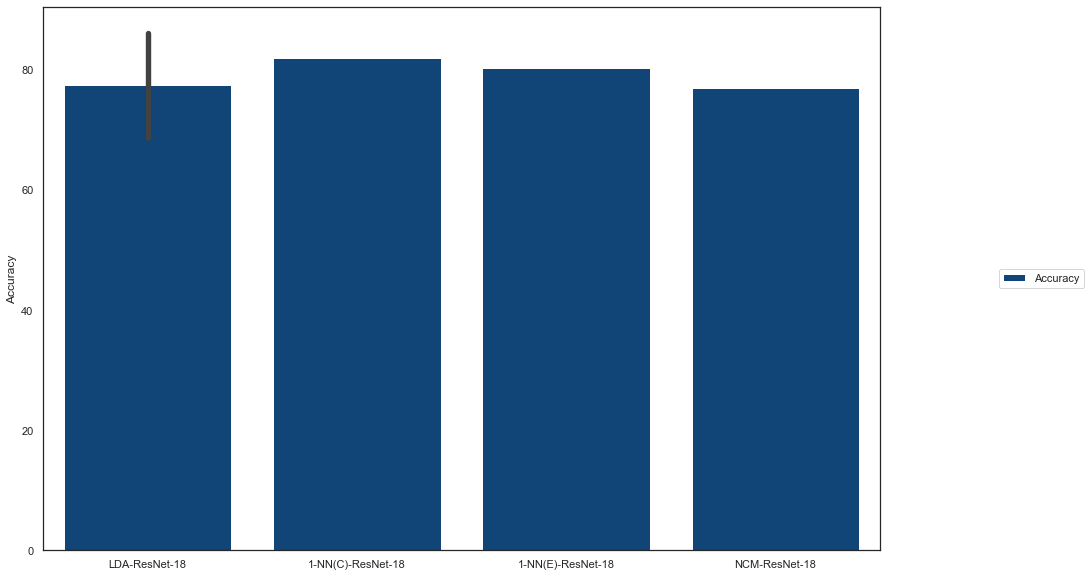
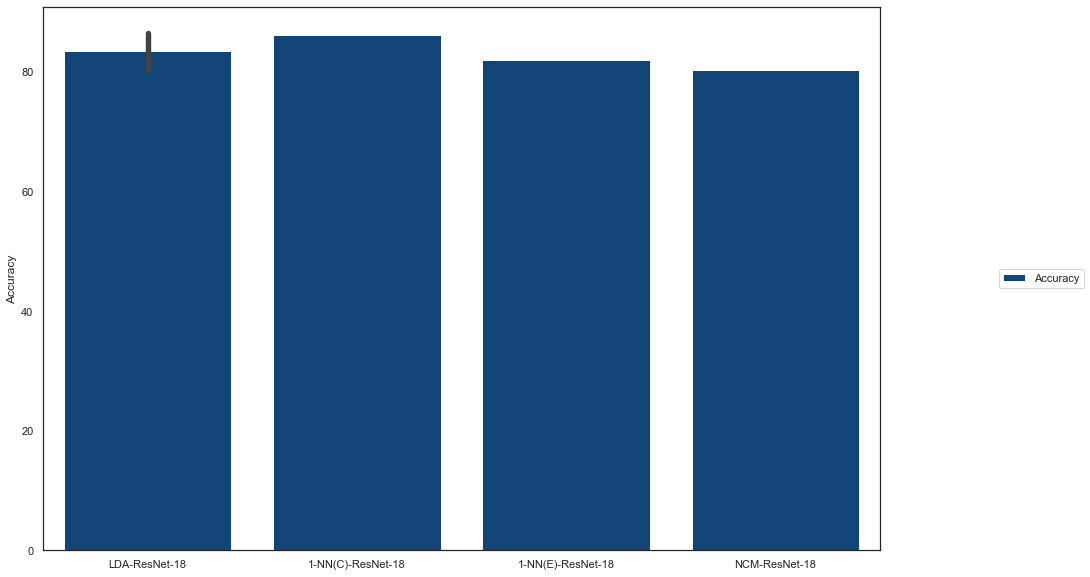
HS

diff --git a/PC/README.md b/PC/README.md
@@ -19,9 +19,11 @@ GPU | RTX 3070 Ti 8GB
 ## Method Comparison - Version 1
 | Classification Method | Train Size | Test Size | Feature Extraction Method | Feature Extraction Size | Epoch | Dimension Reduction Method | Reduced Feature | Test Accuracy |
 |:---------------------:|:----------:|:---------:|:-------------------------:|:-----------------------:|:-----:|:--------------------------:|:---------------:|:-------------:|
+| FC                    | 50,000     | 10,000    | ResNet-18                 | 512 (16.7%)             | 100   | -                          | -               | 86.55%        |
 | LDA                   | 50,000     | 10,000    | ResNet-18 (Pre, ImageNet) | 512 (16.7%)             | 100   | -                          | -               | 86.19%        |
 | 1-NN(C)               | 50,000     | 10,000    | ResNet-18 (Pre, ImageNet) | 512 (16.7%)             | 100   | -                          | -               | 81.89%        |
 | 1-NN(E)               | 50,000     | 10,000    | ResNet-18 (Pre, ImageNet) | 512 (16.7%)             | 100   | -                          | -               | 80.29%        |
+| FC                    | 50,000     | 10,000    | ResNet-18 (Pre, ImageNet) | 512 (16.7%)             | 100   | -                          | -               | 80.27%        |
 | NCM                   | 50,000     | 10,000    | ResNet-18 (Pre, ImageNet) | 512 (16.7%)             | 100   | -                          | -               | 76.98%        |
 | LDA                   | 50,000     | 10,000    | ResNet-18 (Pre, ImageNet) | 512                     | 100   | PCA                        | 9 (0.29%)       | 68.69%        |
 | NCM                   | 50,000     | 10,000    | ResNet-18 (Pre, ImageNet) | 512                     | 100   | PCA                        | 9 (0.29%)       | 67.27%        |
@@ -51,15 +53,15 @@ Pre : Pre-trained Model
 FC : Fully-Connected Layer
 
 ### Top-5
+[FC-ResNet-18](NCM)
+
 [LDA-ResNet-18 (Pre, ImageNet)](LDA)
 
 [1-NN(C)-ResNet-18 (Pre, ImageNet)](LDA)
 
 [1-NN(E)-ResNet-18 (Pre, ImageNet)](LDA)
 
-[NCM-ResNet-18 (Pre, ImageNet)](NCM)
-
-[LDA-ResNet-18 (Pre, ImageNet)-PCA](LDA)
+[FC-ResNet-18 (Pre, ImageNet)](LDA)
 
 
 </br>
@@ -105,7 +107,10 @@ FC : Fully-Connected Layer
 | LDA                   | 50,000     | 10,000    | ResNet-18 (Pre, ImageNet) | 512 (16.7%)             | 100   | -                          | -               | 86.19%        |
 | LDA                   | 50,000     | 10,000    | ResNet-18 (Pre, ImageNet) | 512                     | 100   | PCA                        | 9 (0.29%)       | 68.69%        |
 | LDA                   | 50,000     | 10,000    | ResNet-18 (Pre, ImageNet) | 512                     | 100   | LDA                        | 9 (0.29%)       |               |
-|                       |            |           |                           |                         |       |                            |                 |               |
+| FC                    | 50,000     | 10,000    | ResNet-18                 | 512 (16.7%)             | 100   | -                          | -               | 86.55%        |
+| FC                    | 50,000     | 10,000    | ResNet-18 (Pre, ImageNet) | 512 (16.7%)             | 100   | -                          | -               | 80.27%        |
+| FC                    | 50,000     | 10,000    | ResNet-18 (Pre, ImageNet) | 512                     | 100   | PCA                        | 9 (0.29%)       |               |
+| FC                    | 50,000     | 10,000    | ResNet-18 (Pre, ImageNet) | 512                     | 100   | LDA                        | 9 (0.29%)       |               |
 
 ### Time
 | Method | Training Feature Extraction Time | Training Dimension Reduction Time | Model Training Time | Incremental Model Training Time | Inference Dimension Reduction Time | Inference Feature Extraction Time | Model Inference Time |
